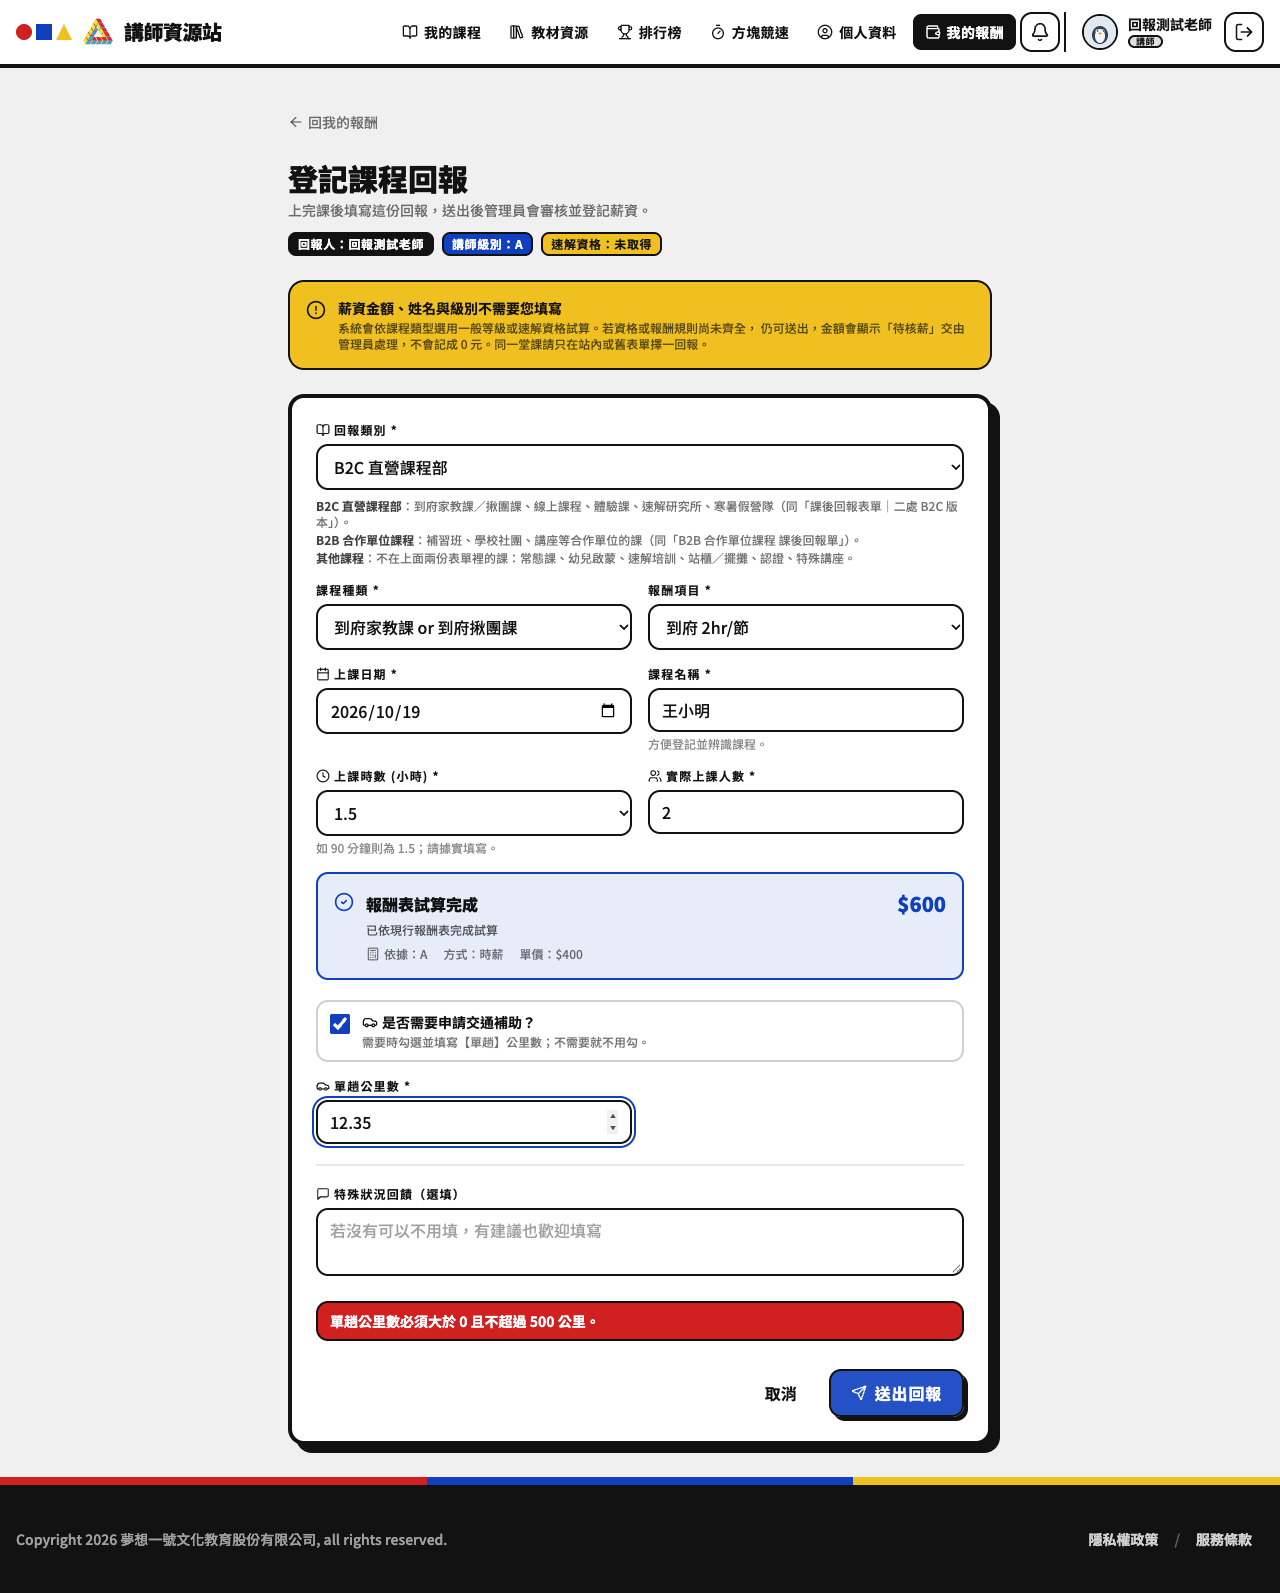
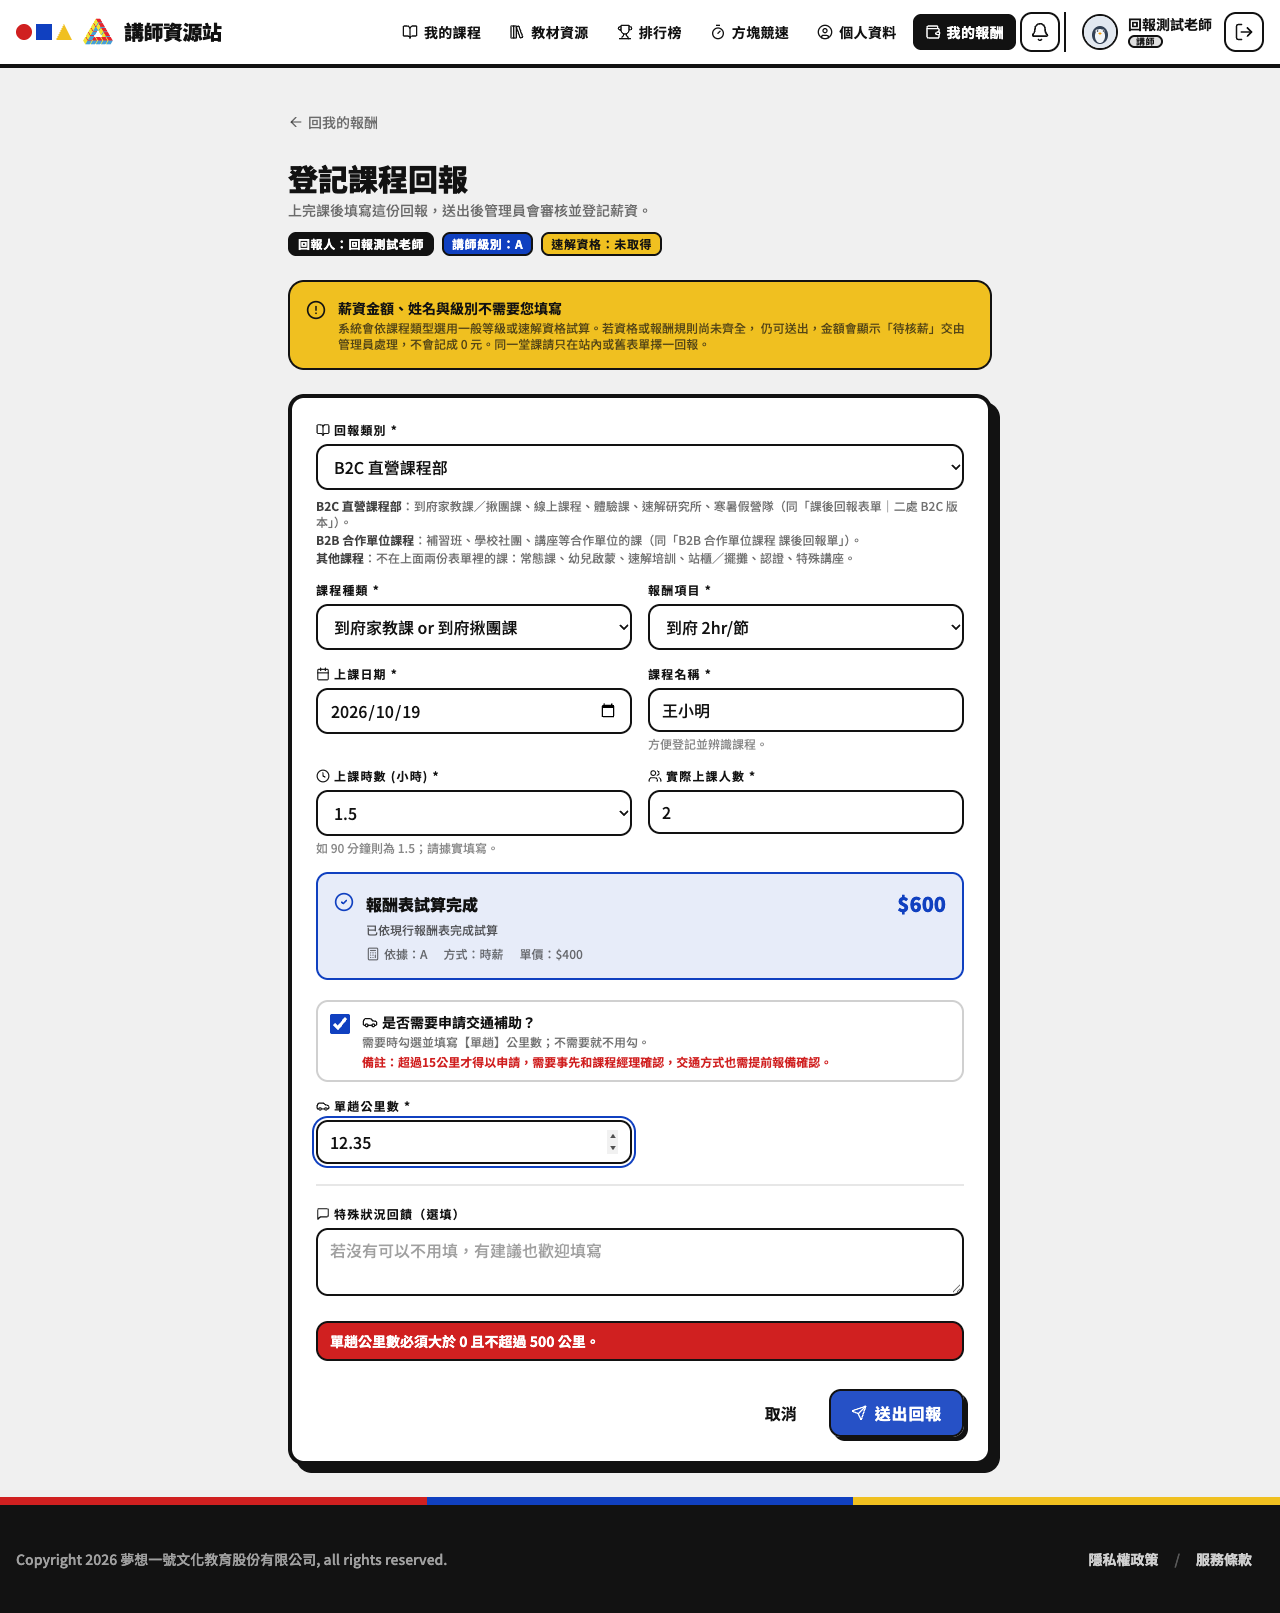
feat(salary-report): show owner's note beside transport subsidy
Owner asked (2026-10-19) to remind instructors that transport subsidy
needs >15 km, prior approval from the course manager, and the travel
mode reported in advance. Hint only; submission is not blocked.

Browser verification 44/44 PASS (new check for the note; 390px no overflow).

diff --git a/培訓web/src/pages/MySalaryNew.jsx b/培訓web/src/pages/MySalaryNew.jsx
@@ -23,6 +23,7 @@ import {
     OTHER_OPTION,
     REPORT_TEXT_MAX,
     TRANSPORT_DISTANCE_MAX,
+    TRANSPORT_SUBSIDY_NOTE,
     buildReportBasicParams,
     buildReportExtrasParams,
     groupReportOptions,
@@ -399,6 +400,7 @@ const MySalaryNew = () => {
                             <span className="min-w-0">
                                 <span className="flex items-center gap-1 text-sm font-bold text-bauhaus-black"><Car className="w-4 h-4" /> 是否需要申請交通補助？</span>
                                 <span className="block text-xs text-bauhaus-black/60 mt-0.5">需要時勾選並填寫【單趟】公里數；不需要就不用勾。</span>
+                                <span className="block text-xs font-bold text-bauhaus-red mt-1">{TRANSPORT_SUBSIDY_NOTE}</span>
                             </span>
                         </label>
                         {extras.transport_requested && (

diff --git a/培訓web/src/lib/salaryReportForm.js b/培訓web/src/lib/salaryReportForm.js
@@ -5,6 +5,8 @@ import { TERM_PERIOD_LABELS, courseCategoryFor, reportChannelFor } from './const
 export const OTHER_OPTION = '__other__';
 export const REPORT_TEXT_MAX = 200;
 export const TRANSPORT_DISTANCE_MAX = 500;
+// 業主 2026-10-19 指示加在回報頁交通補助旁的備註（只提示，不擋送出）
+export const TRANSPORT_SUBSIDY_NOTE = '備註：超過15公里才得以申請，需要事先和課程經理確認，交通方式也需提前報備確認。';
 
 export const EMPTY_REPORT_EXTRAS = {
     term_period: '',

diff --git a/STATUS.md b/STATUS.md
@@ -1,7 +1,19 @@
 # STATUS — 夢想一號培訓平台
 
 > 會變的進度狀態放這裡。不變的事實看 [CLAUDE.md](CLAUDE.md)，長期方向看 [ROADMAP.md](ROADMAP.md)。
-> 最後更新：2026-10-19（薪資總表換新已完成：舊 5 月匯入 9,532 筆搬隔離區、業主確認正確的 5,535 筆成為正式資料，另 25 筆推估更正已套用；後台薪資登記中心改伺服器端篩選＋分頁已上線；回報頁第二版：欄位與選項對齊兩份 Google 表單已上線；第一版三層選單已上線；講師簽約正式重開已上線，待業主真帳號端到端；本日三批皆已上線：課程回報對齊 Google 表單欄位、講師薪資可見範圍 2026-01 起＋參考表權限收緊、後台回報選項管理頁）。
+> 最後更新：2026-10-19（回報頁交通補助加業主備註（15 公里、事先和課程經理確認、交通方式提前報備），已 commit、待推上線；薪資總表換新已完成：舊 5 月匯入 9,532 筆搬隔離區、業主確認正確的 5,535 筆成為正式資料，另 25 筆推估更正已套用；後台薪資登記中心改伺服器端篩選＋分頁已上線；回報頁第二版：欄位與選項對齊兩份 Google 表單已上線；第一版三層選單已上線；講師簽約正式重開已上線，待業主真帳號端到端；本日三批皆已上線：課程回報對齊 Google 表單欄位、講師薪資可見範圍 2026-01 起＋參考表權限收緊、後台回報選項管理頁）。
+
+---
+
+## 🚗 2026-10-19：回報頁交通補助加業主備註（✅ 已改完並本機實測；⏳ 待使用者同意推上 main）
+
+**完成＋證據**：業主指示在講師回報頁的交通補助旁加備註「超過15公里才得以申請，需要事先和課程經理確認，交通方式也需提前報備確認」。
+文字放在 `src/lib/salaryReportForm.js` 的 `TRANSPORT_SUBSIDY_NOTE`，`MySalaryNew.jsx` 在交通補助開關下方以紅色小字顯示（直營與營隊都有交通補助，兩邊都會出現；合作課沒有交通補助所以不顯示）。
+**只提示、不擋送出**：15 公里沒有寫成驗證規則，講師填 12 km 仍可送出，由課程經理核薪時把關（業主沒有要求擋）。
+`npm test` 97/97、ESLint（改動檔）0 錯、`npm run build` 通過；`npm run verify:salary-report-form:browser` 44/44 PASS（新增一項「交通補助旁顯示業主備註」，390px 手機無水平溢出），截圖在 `docs/verification/2026-10-19-salary-report-form-channel/`（`desktop-direct-transport.png`、`mobile-390-direct.png`）。
+**半成品**：分支 `feat/transport-subsidy-note` 已 commit，未推 main（推 main＝Zeabur 自動部署，需使用者點頭）。
+**下一步**：使用者同意後推 main，curl 正式站 bundle grep「超過15公里才得以申請」確認新版上線。
+**地雷**：無新增。
 
 ---
 
